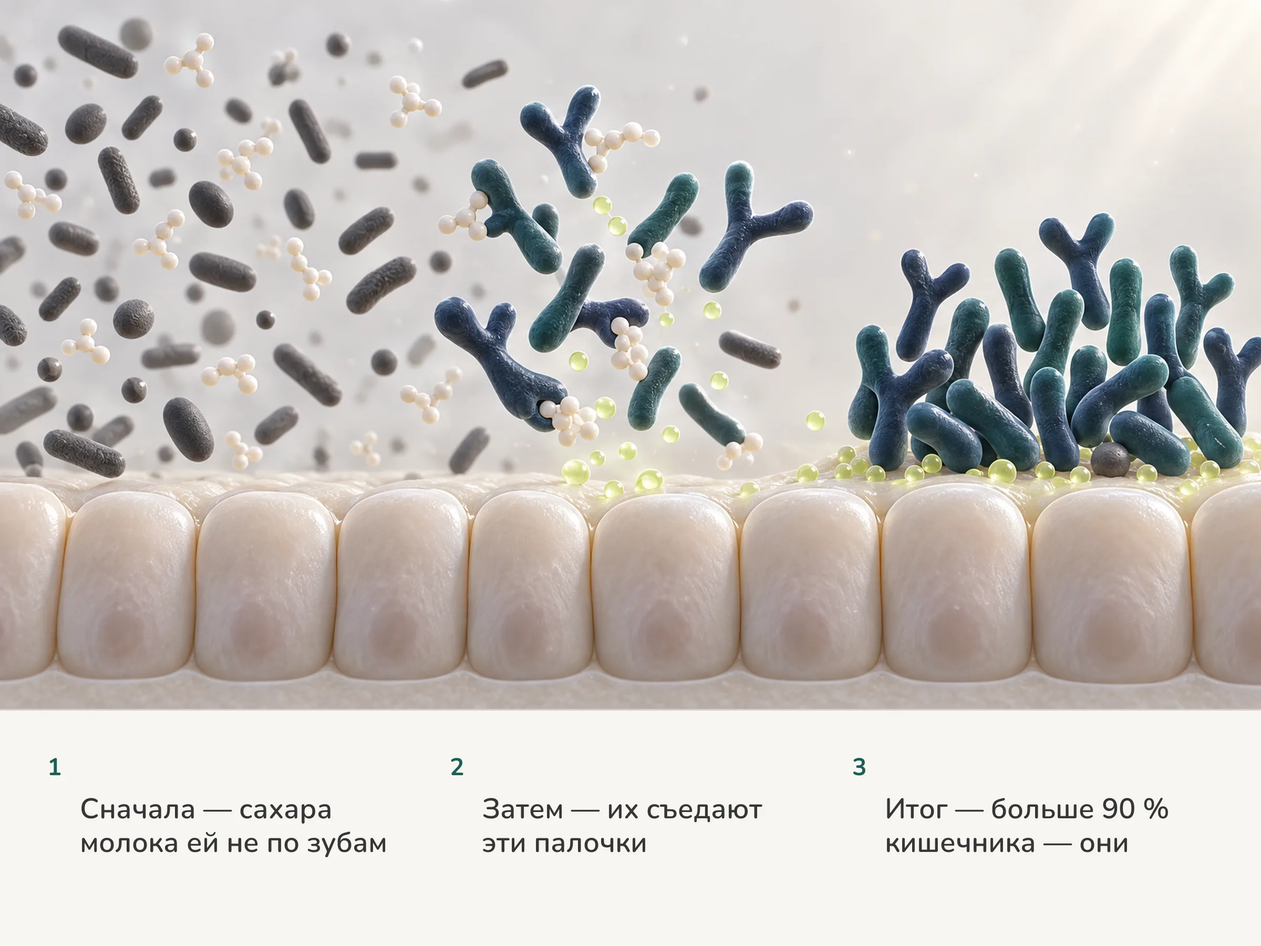
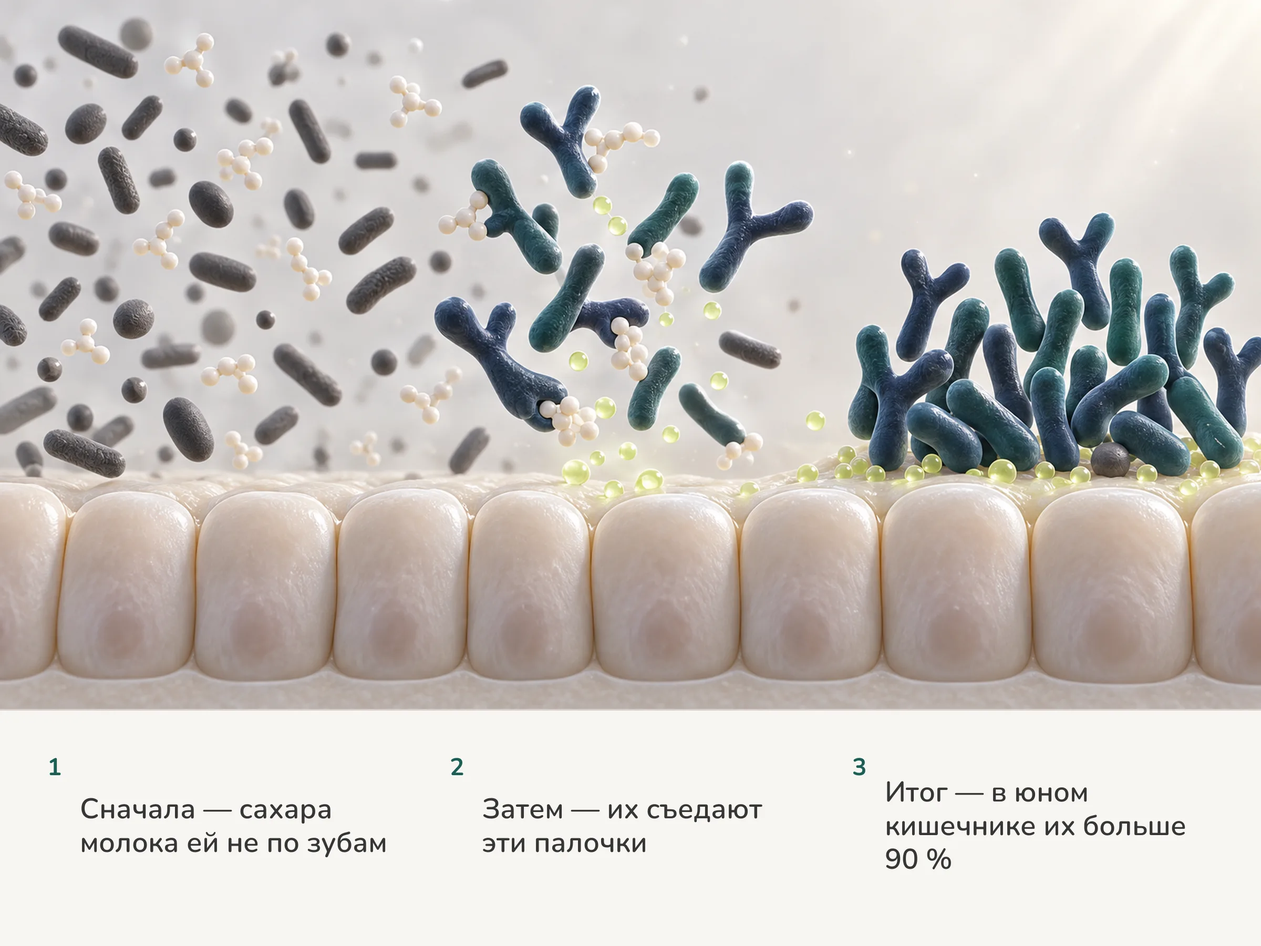
Alexandra's gate on the Russian: six lines that were wrong, not merely different
The register pass read every Russian string the reader meets in pixels — 44
questions, 44 alts, 44 band lines. The questions passed as written: they
sound like a question someone actually asks, which is their whole job. Six
band lines did not.

One hormone, one name. The portal wrote GLP-1 ten times in the metabolic hub
and ГПП-1 thirteen times in the news piece — the same molecule in two
alphabets on one site. Russian usage is ГПП-1, so the hub follows it, with
the Latin form kept once at first mention because that is the form a reader
has seen on a box.

The other five: an "acid-neutral cloud" is not a phrase in Russian and became
"it quenches the acid around itself"; the bench shorthand for a Petri dish
reads as a teacup to everyone else, so it says "in a test tube"; one line
wrote six as a word and six as a digit; one ended before saying five percent
of what; and one put two dashes in a single clause with the subject last.

Six bands re-set from the accepted infographics — no frame regenerated, no
credit spent. That is what the words being in code rather than in the engine
is for.

Changed region(s): [[0.6875, 0.8089, 0.9375, 0.9333]]

diff --git a/content/hubs/metabolic/ru.md b/content/hubs/metabolic/ru.md
@@ -1,6 +1,6 @@
 ---
-title: "Микробы и обмен веществ: GLP-1, аккермансия, бутират"
-meta: "Как кишечные бактерии разговаривают с обменом веществ: короткоцепочечные жирные кислоты, аккермансия и гормон GLP-1. Что механизм, что мыши, что люди."
+title: "Микробы и обмен веществ: ГПП-1, аккермансия, бутират"
+meta: "Как кишечные бактерии разговаривают с обменом веществ: короткоцепочечные жирные кислоты, аккермансия и гормон ГПП-1. Что механизм, что мыши, что люди."
 kicker: "Микробы и обмен веществ"
 type: hubs
 topic: metabolic
@@ -10,7 +10,7 @@ date: 2026-09-02
 asOf: 2026-09-02
 author: magnus-larsen
 voice: komarovsky
-answer: "Кишечные бактерии сбраживают клетчатку в короткоцепочечные жирные кислоты — ацетат, пропионат, бутират. Они кормят стенку кишечника и подают сигнал клеткам, выделяющим GLP-1 — гормон, который замедляет желудок и сообщает мозгу о сытости. Аккермансия, живущая на слизи, укрепляет барьер, чтобы этот разговор шёл спокойно. Это путь, а не лекарство."
+answer: "Кишечные бактерии сбраживают клетчатку в короткоцепочечные жирные кислоты — ацетат, пропионат, бутират. Они кормят стенку кишечника и подают сигнал клеткам, выделяющим ГПП-1 — гормон, который замедляет желудок и сообщает мозгу о сытости. Аккермансия, живущая на слизи, укрепляет барьер, чтобы этот разговор шёл спокойно. Это путь, а не лекарство."
 sources: []
 images:
   card: "/assets/img/mbf/hubs/metabolic/metabolic-card-ru.webp"
@@ -18,17 +18,17 @@ images:
   cardAlt: "Отчего приходит сытость? — мужчина остановился на краю парка в сумерках, чтобы отдышаться"
   og: "/assets/img/mbf/hubs/metabolic/metabolic-og-ru.jpg"
   preview: "/assets/img/mbf/hubs/metabolic/metabolic-preview.webp"
-  previewAlt: "Иллюстрация: колбовидная гормональная клетка слизистой кишечника с золотыми гранулами GLP-1, на её верхушку садятся молекулы жирных кислот"
+  previewAlt: "Иллюстрация: колбовидная гормональная клетка слизистой кишечника с золотыми гранулами ГПП-1, на её верхушку садятся молекулы жирных кислот"
   plate: "/assets/img/mbf/hubs/metabolic/metabolic-plate-ru.webp"
-  plateLines: "Сначала — бактерии сбраживают клетчатку · Затем — кислоты доходят до клетки кишки · Итог — она выпускает GLP-1 в кровь"
+  plateLines: "Сначала — бактерии сбраживают клетчатку · Затем — кислоты доходят до клетки кишки · Итог — она выпускает ГПП-1 в кровь"
   hero: "/assets/img/mbf/hubs/metabolic/metabolic-hero.webp"
-  heroAlt: "Иллюстрация: бактерии сбраживают клетчатку в молекулы жирных кислот, те садятся на гормональную клетку слизистой, и она выпускает золотые гранулы GLP-1 в мелкий сосуд"
+  heroAlt: "Иллюстрация: бактерии сбраживают клетчатку в молекулы жирных кислот, те садятся на гормональную клетку слизистой, и она выпускает золотые гранулы ГПП-1 в мелкий сосуд"
 referral:
   product: ""
   mayaLog: ""
   benefitGate: ""
 gates:
-  marketolog: "3 variants scored — chosen: named-entities (GLP-1, аккермансия, бутират)"
+  marketolog: "3 variants scored — chosen: named-entities (ГПП-1, аккермансия, бутират)"
   segmentCheck: "PASS 7/8"
   factCheck: "verified 2026-09-02 — hub, no numeric claims"
   register: "pending Alexandra Vetrova (RU)"
@@ -36,9 +36,9 @@ status: published
 ---
 ## Что это за система
 
-Обмен веществ — это не только что вы съели, но и что из этого сделали бактерии. Клетчатка проходит мимо собственных ферментов нетронутой и доходит до толстой кишки, где бродильщики превращают её в короткоцепочечные жирные кислоты. Бутират сжигают клетки стенки кишечника. Пропионат уходит в печень. Ацетат доходит до мышц и жира. Все три садятся на рецепторы энтероэндокринных клеток — гормональных клеток, рассыпанных по кишечнику, — и те в ответ выделяют GLP-1 и PYY.
+Обмен веществ — это не только что вы съели, но и что из этого сделали бактерии. Клетчатка проходит мимо собственных ферментов нетронутой и доходит до толстой кишки, где бродильщики превращают её в короткоцепочечные жирные кислоты. Бутират сжигают клетки стенки кишечника. Пропионат уходит в печень. Ацетат доходит до мышц и жира. Все три садятся на рецепторы энтероэндокринных клеток — гормональных клеток, рассыпанных по кишечнику, — и те в ответ выделяют ГПП-1 и PYY.
 
-GLP-1 — тот самый гормон, который копирует известный класс лекарств от диабета и для снижения веса. Ваши бактерии стимулируют его природную версию столько, сколько вы едите растения.
+ГПП-1 (в англоязычных источниках GLP-1) — тот самый гормон, который копирует известный класс лекарств от диабета и для снижения веса. Ваши бактерии стимулируют его природную версию столько, сколько вы едите растения.
 
 *Akkermansia muciniphila* живёт в слое слизи, который отделяет бактерии от стенки кишечника. Поедая слизь, она заставляет стенку делать её больше — барьер утолщается. Толще барьер — меньше бактериальных обломков просачивается в кровь, а с ними и вялотекущего воспаления, связанного с инсулинорезистентностью.
 
@@ -52,7 +52,7 @@ GLP-1 — тот самый гормон, который копирует изв
 
 ## Что наука уже может сказать, а что пока нет
 
-Может: короткоцепочечные жирные кислоты запускают выброс GLP-1; барьер важен; при болезнях обмена состав другой; питание быстро меняет и то и другое.
+Может: короткоцепочечные жирные кислоты запускают выброс ГПП-1; барьер важен; при болезнях обмена состав другой; питание быстро меняет и то и другое.
 
 Пока не может: доказать, что бактериальная добавка надолго предотвращает или обращает диабет и ожирение, и сказать, кому она поможет. Механизмы на мышах сильные; испытаний с исходами у людей мало.
 

diff --git a/content/hubs/metabolic/image-brief.md b/content/hubs/metabolic/image-brief.md
@@ -46,14 +46,14 @@ Alt lines written 2026-09-16 for the planned frames (RU register: Alexandra's ga
 
 - en preview alt: "Illustration: a flask-shaped hormone cell in the gut lining holds glowing gold GLP-1 granules as fatty acid molecules settle on its tip"
 - en hero alt: "Illustration: bacteria ferment fibre into fatty acid molecules that dock on a hormone cell in the gut lining; it releases gold GLP-1 granules into a small blood vessel"
-- ru preview alt: "Иллюстрация: колбовидная гормональная клетка слизистой кишечника с золотыми гранулами GLP-1, на её верхушку садятся молекулы жирных кислот"
-- ru hero alt: "Иллюстрация: бактерии сбраживают клетчатку в молекулы жирных кислот, те садятся на гормональную клетку слизистой, и она выпускает золотые гранулы GLP-1 в мелкий сосуд"
+- ru preview alt: "Иллюстрация: колбовидная гормональная клетка слизистой кишечника с золотыми гранулами ГПП-1, на её верхушку садятся молекулы жирных кислот"
+- ru hero alt: "Иллюстрация: бактерии сбраживают клетчатку в молекулы жирных кислот, те садятся на гормональную клетку слизистой, и она выпускает золотые гранулы ГПП-1 в мелкий сосуд"
 - en card alt: "What makes you feel full? — a man stops at the edge of the park at dusk to get his breath back"
 - ru card alt: "Отчего приходит сытость? — мужчина остановился на краю парка в сумерках, чтобы отдышаться"
 - en card question: "What makes you feel full?"
 - ru card question: "Отчего приходит сытость?"
 - en plate lines: "First — bacteria ferment fibre · Then — fatty acids reach a gut cell · So — it releases GLP-1 into the blood"
-- ru plate lines: "Сначала — бактерии сбраживают клетчатку · Затем — кислоты доходят до клетки кишки · Итог — она выпускает GLP-1 в кровь"
+- ru plate lines: "Сначала — бактерии сбраживают клетчатку · Затем — кислоты доходят до клетки кишки · Итог — она выпускает ГПП-1 в кровь"
 
 Only these four descriptive lines change per language; the pixels stay the same.
 

diff --git a/content/bacteria/faecalibacterium-prausnitzii/ru.md b/content/bacteria/faecalibacterium-prausnitzii/ru.md
@@ -95,7 +95,7 @@ images:
   preview: "/assets/img/mbf/bacteria/faecalibacterium-prausnitzii/faecalibacterium-prausnitzii-preview.webp"
   previewAlt: "Иллюстрация: тонкие палочковидные бактерии лежат в плотной слизи над слизистой толстой кишки, от них вниз опускаются крошечные коралловые капли"
   plate: "/assets/img/mbf/bacteria/faecalibacterium-prausnitzii/faecalibacterium-prausnitzii-plate-ru.webp"
-  plateLines: "Сначала — прячется там, где нет воздуха · Затем — ест то, что бросили соседи · Итог — стенка сыта; больше 5 % всех"
+  plateLines: "Сначала — прячется там, где нет воздуха · Затем — ест то, что бросили соседи · Итог — стенка сыта; больше 5 % бактерий"
   hero: "/assets/img/mbf/bacteria/faecalibacterium-prausnitzii/faecalibacterium-prausnitzii-hero.webp"
   heroAlt: "Иллюстрация: среди двадцати кишечных бактерий в бескислородной слизи одна тонкая палочка забирает остатки соседей и выделяет золотые капли бутирата, которые уходят в клетки слизистой толстой кишки"
 referral:

diff --git a/docs/DEPLOY.md b/docs/DEPLOY.md
@@ -48,5 +48,5 @@ Mail is untouched: the `mail` A record, MX and DMARC stay as they were.
 | 2026-09-16 | `5fafa7e` | session | wave 2 live — 36 more topics |
 | 2026-09-16 | `26c7b9f` | session | last five topics; all 44 carry both masters |
 | 2026-09-16 | `446398f` | session | image URLs fingerprinted — the edge was still serving the replaced frames |
-| 2026-09-16 | `558592e` | session (Lisa · Otto · Marika) | eight cards recast with men after the Owner freed our own people's portraits — 36 women, 8 men, one man on every feed but food and routine. Two frames reshot on measurement, alt text rewritten with the faces. The ninth is open: the engine refused it twice and failed twice |
+| 2026-09-16 | `07c9b53` | session (Lisa · Otto · Marika) | nine cards recast with men after the Owner freed our own people's portraits — 35 women, 9 men, a man on every feed page, no face twice. Three frames reshot on measurement, alt text rewritten with the faces; the last took six attempts against the engine's filter and an outage |
 | 2026-09-16 | `0d3e6ad` | session (Lisa · Otto · Marika) | the three-image shape: 44 character cards with the topic's question baked per language, the macro world and the infographic moved into the body, the infographic given a band of three numbered beats. 440 derived files, 88 locale files rewired. Live check: 1302 image URLs on the edge, 0 bad. Look accepted at 1440 and 390 px |

diff --git a/content/bacteria/bifidobacterium/ru.md b/content/bacteria/bifidobacterium/ru.md
@@ -122,7 +122,7 @@ images:
   preview: "/assets/img/mbf/bacteria/bifidobacterium/bifidobacterium-preview.webp"
   previewAlt: "Иллюстрация: вилообразные Y-образные клетки бифидобактерий в неподвижном кармане прозрачного содержимого кишечника, коралловая капля у развилки одной клетки"
   plate: "/assets/img/mbf/bacteria/bifidobacterium/bifidobacterium-plate-ru.webp"
-  plateLines: "Сначала — сахара молока ей не по зубам · Затем — их съедают эти палочки · Итог — больше 90 % кишечника — они"
+  plateLines: "Сначала — сахара молока ей не по зубам · Затем — их съедают эти палочки · Итог — в юном кишечнике их больше 90 %"
   hero: "/assets/img/mbf/bacteria/bifidobacterium/bifidobacterium-hero.webp"
   heroAlt: "Иллюстрация: молочные сахара нетронутыми проходят мимо слизистой кишечника младенца, вилообразные палочки бифидобактерий сбраживают их в лаймовые капли ацетата, и справа девятнадцать клеток из двадцати — их"
 referral:

diff --git a/content/news/probiotic-sulfur-bad-breath-periodontitis/ru.md b/content/news/probiotic-sulfur-bad-breath-periodontitis/ru.md
@@ -55,7 +55,7 @@ images:
   preview: "/assets/img/mbf/articles/probiotic-sulfur-bad-breath-periodontitis/probiotic-sulfur-bad-breath-periodontitis-preview.webp"
   previewAlt: "Иллюстрация: веретеновидные и короткие бактерии в налёте между округлыми сосочками языка, поднимаются крошечные золотые пузырьки газа"
   plate: "/assets/img/mbf/articles/probiotic-sulfur-bad-breath-periodontitis/probiotic-sulfur-bad-breath-periodontitis-plate-ru.webp"
-  plateLines: "Сначала — микробы рта едят белок · Затем — фермент отрывает серу · Итог — ген притих на 98 %, в чашке"
+  plateLines: "Сначала — микробы рта едят белок · Затем — фермент отрывает серу · Итог — ген притих на 98 %, в пробирке"
   hero: "/assets/img/mbf/articles/probiotic-sulfur-bad-breath-periodontitis/probiotic-sulfur-bad-breath-periodontitis-hero.webp"
   heroAlt: "Иллюстрация: анаэробы налёта, полные ферментов, отщепляющих серу, выпускают пузырьки; жидкость молочнокислых бактерий омывает их, и ферменты почти исчезают"
 referral:

diff --git a/content/ask/why-did-a-probiotic-work-for-my-friend/ru.md b/content/ask/why-did-a-probiotic-work-for-my-friend/ru.md
@@ -79,7 +79,7 @@ images:
   preview: "/assets/img/mbf/ask/why-did-a-probiotic-work-for-my-friend/why-did-a-probiotic-work-for-my-friend-preview.webp"
   previewAlt: "Иллюстрация: две одинаковые группы палочковидных бактерий на волнистой кишечной слизи; под одной слизь меняется, под другой нет"
   plate: "/assets/img/mbf/ask/why-did-a-probiotic-work-for-my-friend/why-did-a-probiotic-work-for-my-friend-plate-ru.webp"
-  plateLines: "Сначала — шесть штаммов на вид одинаковы · Затем — кишечник один и тот же · Итог — помогли 4 из 6"
+  plateLines: "Сначала — 6 штаммов на вид одинаковы · Затем — кишечник один и тот же · Итог — помогли 4 из 6"
   hero: "/assets/img/mbf/ask/why-did-a-probiotic-work-for-my-friend/why-did-a-probiotic-work-for-my-friend-hero.webp"
   heroAlt: "Иллюстрация: шесть одинаковых скоплений палочковидных бактерий оседают на одну и ту же кишечную слизь; под четырьмя она заметно меняется, под двумя остаётся нетронутой"
 referral:

diff --git a/content/bacteria/helicobacter-pylori/ru.md b/content/bacteria/helicobacter-pylori/ru.md
@@ -115,7 +115,7 @@ images:
   preview: "/assets/img/mbf/bacteria/helicobacter-pylori/helicobacter-pylori-preview.webp"
   previewAlt: "Иллюстрация: спиральные бактерии с пучком жгутиков на одном конце лежат в слизи над слизистой желудка, одна в прозрачном кармане"
   plate: "/assets/img/mbf/bacteria/helicobacter-pylori/helicobacter-pylori-plate-ru.webp"
-  plateLines: "Сначала — облако нейтрали в кислоте · Затем — ввинчивается в слизь · Итог — держится на стенке всю жизнь"
+  plateLines: "Сначала — гасит кислоту вокруг себя · Затем — ввинчивается в слизь · Итог — держится на стенке всю жизнь"
   hero: "/assets/img/mbf/bacteria/helicobacter-pylori/helicobacter-pylori-hero.webp"
   heroAlt: "Иллюстрация: спиральная бактерия окружает себя маленьким нейтральным облаком в желудочной кислоте, ввинчивается в слизь и закрепляется на слизистой рядом с уже осевшими"
 referral:

diff --git a/content/bacteria/faecalibacterium-prausnitzii/image-brief.md b/content/bacteria/faecalibacterium-prausnitzii/image-brief.md
@@ -98,7 +98,7 @@ Alt lines written 2026-09-16 for the planned frames (RU register: Alexandra's ga
 - en card question: "What feeds your gut lining?"
 - ru card question: "Чем питается стенка кишечника?"
 - en plate lines: "First — it hides where no air reaches · Then — it eats what neighbours drop · So — the lining is fed; over 5 % of all"
-- ru plate lines: "Сначала — прячется там, где нет воздуха · Затем — ест то, что бросили соседи · Итог — стенка сыта; больше 5 % всех"
+- ru plate lines: "Сначала — прячется там, где нет воздуха · Затем — ест то, что бросили соседи · Итог — стенка сыта; больше 5 % бактерий"
 ```
 
 ## Notes for Lisa and Otto (plain words)

diff --git a/content/bacteria/helicobacter-pylori/image-brief.md b/content/bacteria/helicobacter-pylori/image-brief.md
@@ -35,7 +35,7 @@ Alt lines written 2026-09-16 for the planned frames (RU register: Alexandra's ga
 - en card question: "Is something this common a pathogen?"
 - ru card question: "Носит половина мира — и опасна?"
 - en plate lines: "First — it makes a neutral cloud in acid · Then — it drills down into the mucus · So — it fastens to the lining for life"
-- ru plate lines: "Сначала — облако нейтрали в кислоте · Затем — ввинчивается в слизь · Итог — держится на стенке всю жизнь"
+- ru plate lines: "Сначала — гасит кислоту вокруг себя · Затем — ввинчивается в слизь · Итог — держится на стенке всю жизнь"
 ```
 
 ---

diff --git a/content/bacteria/bifidobacterium/image-brief.md b/content/bacteria/bifidobacterium/image-brief.md
@@ -69,7 +69,7 @@ Alt lines written 2026-09-16 for the planned frames (RU register: Alexandra's ga
 - en card question: "Is every bifidobacterium good?"
 - ru card question: "Все бифидобактерии полезные?"
 - en plate lines: "First — milk sugars pass the baby by · Then — these rods eat what she cannot · So — over 90 % of her gut is theirs"
-- ru plate lines: "Сначала — сахара молока ей не по зубам · Затем — их съедают эти палочки · Итог — больше 90 % кишечника — они"
+- ru plate lines: "Сначала — сахара молока ей не по зубам · Затем — их съедают эти палочки · Итог — в юном кишечнике их больше 90 %"
 
 ---
 

diff --git a/content/news/probiotic-sulfur-bad-breath-periodontitis/image-brief.md b/content/news/probiotic-sulfur-bad-breath-periodontitis/image-brief.md
@@ -70,7 +70,7 @@ Alt lines written 2026-09-16 for the planned frames (RU register: Alexandra's ga
 - en card question: "What actually causes bad breath?"
 - ru card question: "Отчего на самом деле пахнет?"
 - en plate lines: "First — mouth microbes eat protein · Then — an enzyme cuts the sulfur free · So — that gene fell 98 %, in a dish"
-- ru plate lines: "Сначала — микробы рта едят белок · Затем — фермент отрывает серу · Итог — ген притих на 98 %, в чашке"
+- ru plate lines: "Сначала — микробы рта едят белок · Затем — фермент отрывает серу · Итог — ген притих на 98 %, в пробирке"
 
 ---
 
